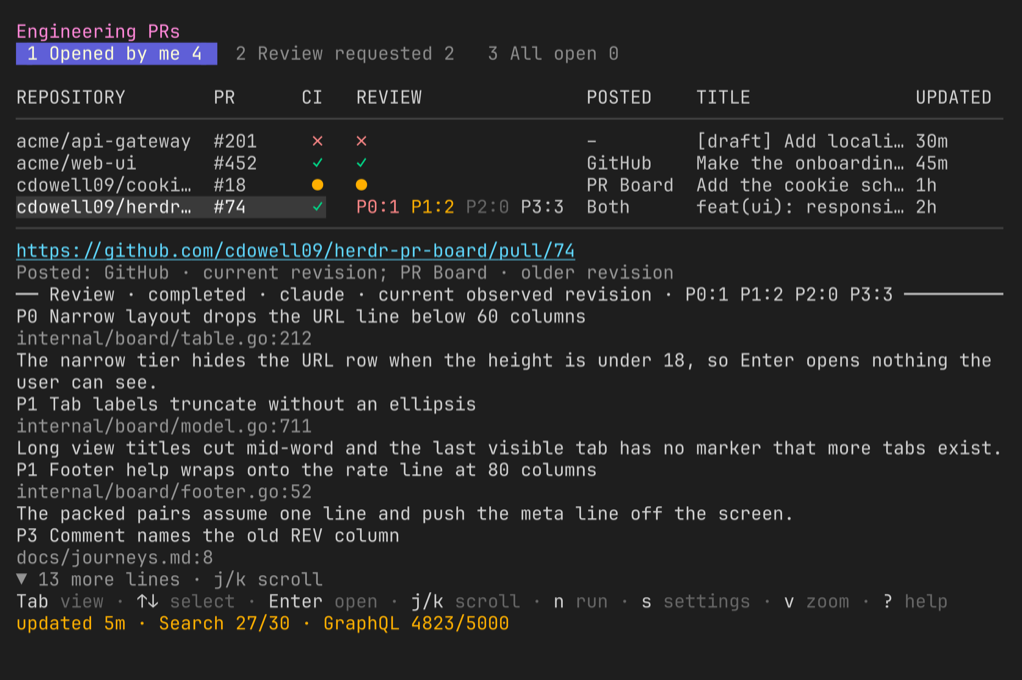
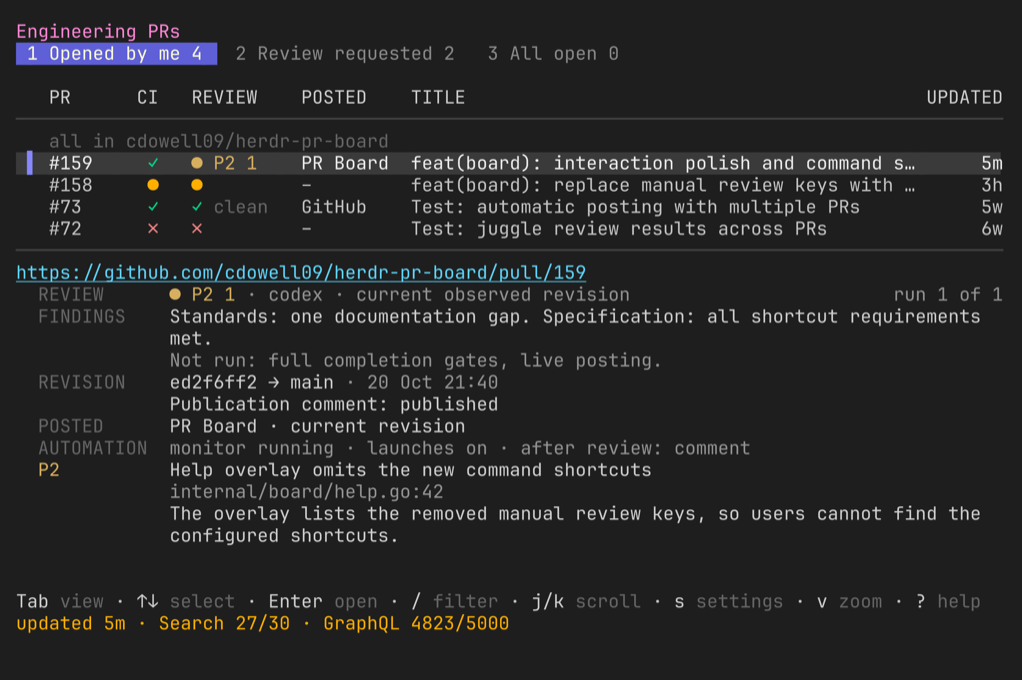
docs: describe the tidy board layout and refresh screenshots (#156)
Document the full-width selection, the shared repository line, compact
ages, the worst-severity REVIEW cell, and the labeled review region. Update
the filter example and regenerate the board images.

diff --git a/docs/board.md b/docs/board.md
@@ -26,6 +26,15 @@ A short terminal makes the text shorter. Then it shows the keys without the acti
 The filter, loading, and error messages replace this text.
 
 The board shows the URL of the selected PR.
+The selected row has a background color across the full table width.
+A `▌` mark in the left gutter identifies the selected row.
+
+When all rows in the current view belong to one repository, the board hides the **REPOSITORY** column.
+A dim line under the header names the repository, for example `all in acme/api`.
+The filter can cause this change. A short terminal keeps the column instead of the line.
+
+The **UPDATED** column shows the time since the last PR update: `now`, `5m`, `3h`, `2d`, or `6w`.
+The ages align to the right edge of the table.
 
 The CI column uses a symbol and a color:
 
@@ -38,19 +47,18 @@ The CI column uses a symbol and a color:
 | `?` | Dim | The plugin cannot get the check status. |
 
 The **REVIEW** column shows local PR Board reviews for the current revision.
-A completed review with findings shows the finding count for each severity:
+A completed review with findings shows the most severe finding level and its count:
 
 ```
-P0:1 P1:2 P2:0 P3:3
+● P2 1
 ```
 
-The counts are in severity order from P0 to P3. A count of 10 or more shows `+`.
-A P0 count above zero is red. A P1 count above zero is yellow. Zero counts are dim.
+The color identifies the severity. P0 is red. P1 is orange. P2 is yellow. P3 is gray.
+A completed review with no findings shows `✓ clean`.
 Every other state uses the CI symbols:
 
 | Symbol | Meaning |
 | --- | --- |
-| `✓` | The current revision has a completed local review with no findings. |
 | `●` | A review is running, queued, waiting for a slot, or awaiting dispatch. |
 | `✗` | The current revision has a failed, blocked, or abandoned review. |
 | `–` | No local review is active or complete for this revision. |
@@ -58,9 +66,19 @@ Every other state uses the CI symbols:
 
 Select a PR to read its local reviews in the review region below the URL.
 A rule closes the table above the URL, so the table and the region read as two areas.
-A line under the URL summarizes the posted reviews.
-The region header names the outcome, the reviewer, the revision comparison, and the severity counts.
-The findings follow the header.
+The region shows one labeled row for each topic:
+
+| Label | Content |
+| --- | --- |
+| `REVIEW` | The outcome, the reviewer, and the revision comparison. The run position, for example `run 1 of 3`, is at the right edge. |
+| `FINDINGS` | The reviewer summary. A dim line lists the checks that the reviewer did not run. |
+| `REVISION` | The short head commit, the target branch, and the start time. |
+| `POSTED` | The submitted reviews for the PR. |
+| `AUTOMATION` | The monitor state, the automatic launch setting, and the action after a review. |
+
+Each finding follows these rows under its severity label, with its file, line, and text.
+When a newer run did not complete, the region also shows the completed run that publication targets.
+The run ID and the diagnostics path show only in zoom.
 A terminal with fewer than 24 rows collapses the region to one summary line.
 That line shows the exact count for each severity, or `no findings`.
 Local status updates each second without GitHub requests.
@@ -82,7 +100,7 @@ Draft reviews and ordinary PR conversation comments do not count as submitted re
 Dismissed reviews still count as posts. The column does not represent approval status.
 `GitHub` identifies the publication source. It does not prove that a human wrote the review.
 A review started with `--review` is still a PR Board review.
-Press `v` to zoom the review region for previous runs and publication diagnostics.
+Press `v` to zoom the review region for previous runs, run IDs, diagnostics paths, and publication diagnostics.
 GitHub review observations follow the normal refresh interval and cache.
 
 ## Controls
@@ -120,7 +138,7 @@ GitHub review observations follow the normal refresh interval and cache.
 The board sorts PRs by update time, with the most recent first.
 The filter matches repository names, titles, authors, and PR numbers.
 It also matches the REVIEW and CI cells and their state names.
-For example, `/p0:1` finds a review with one P0 finding.
+For example, `/p0` finds a review whose most severe finding is P0, and `/clean` finds a clean review.
 `/failure` finds failed CI.
 The filter ignores letter case and makes no GitHub requests.
 One filter applies to all views.
@@ -210,8 +228,8 @@ The board adapts to the terminal width:
 | 60–79 cells | No author or updated columns. |
 | Fewer than 60 cells | PR, CI, REVIEW, and title columns. |
 
-The REVIEW column keeps 19 cells at every width. The title column absorbs the difference.
-Below 100 cells, the title column shows only a few characters.
+The REVIEW column keeps 8 cells at every width. The title column absorbs the remaining width.
+The fixed columns stay at the right edge of the table.
 The title bar shows the plugin version at 80 cells or more.
 A narrower terminal omits the version and keeps the configured title.
 The selected PR URL stays visible at every width.

diff --git a/README.md b/README.md
@@ -9,7 +9,7 @@ PR Board brings GitHub searches, CI status, and agent reviews into one reusable 
 - Keep findings local, or enable publication and automatic reviews per repository.
 - Retrieve JSON snapshots for scripts and coding agents.
 
-![PR Board with repository views, CI status, and review controls](docs/images/herdr-pr-board.png)
+![PR Board with a selected PR, CI and review status, and the labeled review region](docs/images/herdr-pr-board.png)
 
 ## Install and open
 
@@ -60,7 +60,7 @@ The board refreshes every five minutes by default.
 Click a footer key to do the action of that key.
 
 The CI column shows check status.
-REVIEW shows local review progress and finding counts for the current revision.
+REVIEW shows local review progress and the most severe finding for the current revision.
 POSTED shows reviews submitted through GitHub, this PR Board installation, or both.
 Select a PR to inspect its revision details.
 See [board controls and status](docs/board.md) for all controls, symbols, and layouts.
